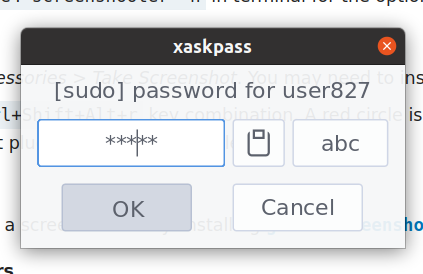
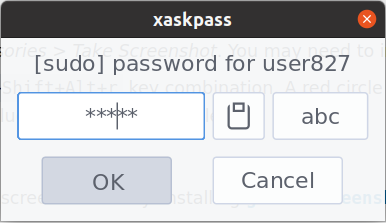
Update images

diff --git a/README.md b/README.md
@@ -12,12 +12,12 @@ to make sure the password stays in the memory for the shortest time.
 [x11-ssh-askpass]: https://archlinux.org/packages/community/x86_64/x11-ssh-askpass/
 
 <p align="center">
-<img src="res/asterisk.png">
+<img src="res/circle.png">
 </p>
 
-Classic indicator | Circle | Strings/Disco
+Classic indicator | Asterisk | Strings/Disco
 :-------:|:-------:|:-------:
-![](res/classic.png) | ![](res/xaskpass1.png) | ![](res/disco.png)
+![](res/classic.png) | ![](res/asterisk.png) | ![](res/disco.png)
 
 ## Installation and building
 In Arch Linux the easiest way to install is to use the [aur package](https://aur.archlinux.org/packages/xaskpass).
